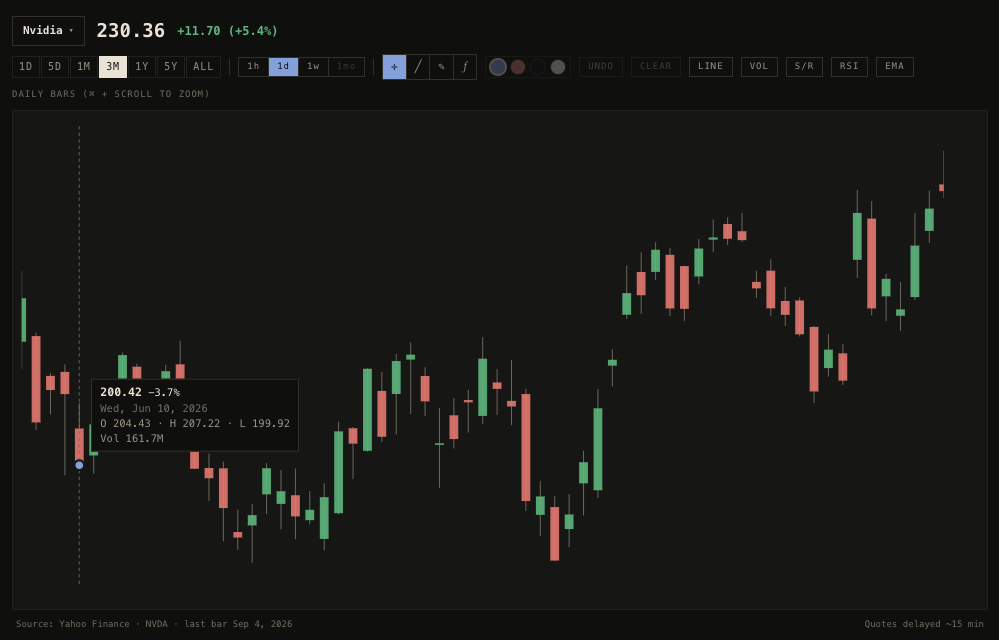
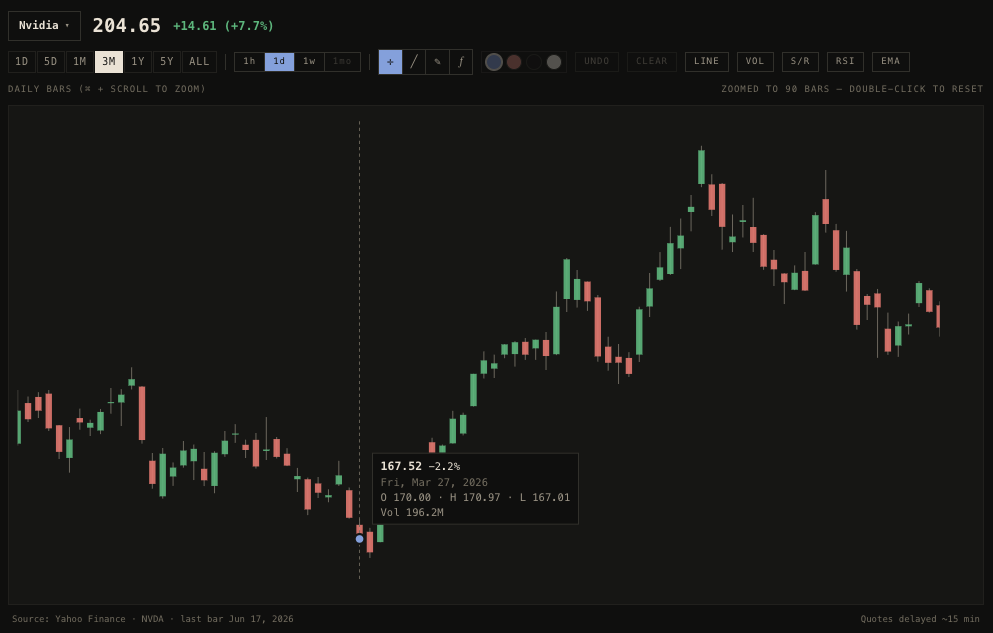
Replace the charts panel shot with the zoomed ninety-bar view
Claude-Session: https://claude.ai/code/session_0114vRXm3QTD2DAYbHioWHdv

diff --git a/src/data/case-studies.ts b/src/data/case-studies.ts
@@ -628,7 +628,7 @@ export const caseStudies: Record<string, CaseStudy> = {
         type: "image",
         src: "/projects/buy-side-chart-2.png",
         max: 800,
-        alt: "The charts panel: a row of tickers with Nvidia selected, range and bar controls under it, and a three month candlestick chart with a hover card on the June 10 bar showing its open, high, low, and volume, over a footer crediting Yahoo Finance and noting quotes are delayed about fifteen minutes",
+        alt: "The charts panel: Nvidia selected, range and bar controls under it, and a daily candlestick chart zoomed to ninety bars with a hover card on the March 27 bar showing its open, high, low, and volume, over a footer crediting Yahoo Finance and noting quotes are delayed about fifteen minutes",
       },
 
 
